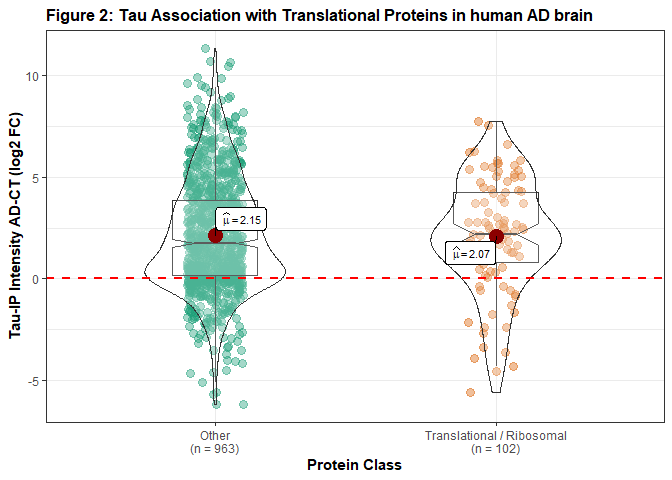
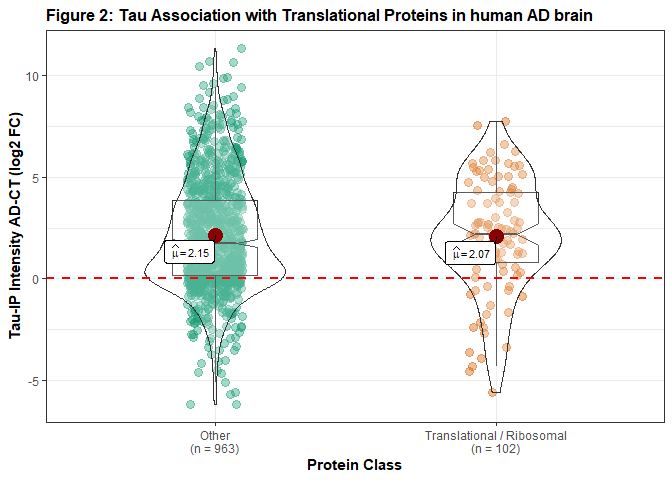
redux

diff --git a/Tau-Ribosome Association/test_tex.md b/Tau-Ribosome Association/test_tex.md
@@ -2,6 +2,7 @@ Relationship between ribosomal protein position and tau association in
 Alzheimer’s disease
 ================
 Shon Koren
+August 10th, 2020
 
 This is code demonstrating the relationship between human ribosomal
 protein (RP) structural position and association with the microtubule
@@ -22,8 +23,8 @@ AA}\_{rRNA}}{\\sum(AA\_{rRNA}+AA\_{water})}](https://latex.codecogs.com/png.late
 Internal RP proteins have more AA interfacing with rRNA than water
 resulting in a higher Interface Index. A common cutoff for RP structural
 position is 0.60 (Shigeoka et al., 2019). Plotting for the relative
-frequency of RP interface indices reveals most RPs are external rather
-than internal, as expected.
+frequency of RP interface indices (Fig. 1) reveals most RPs are external
+rather than internal, as expected.
 
 <img src="test_tex_files/figure-gfm/unnamed-chunk-1-1.png" style="display: block; margin: auto;" />
 
@@ -39,8 +40,9 @@ roughly 50 out of 80 potential RPs.
 As noted by the Hsieh et al., 2019 study among many others including
 from the Abisambra lab, tau basally associates with RPs. When we plot
 the data from Hsieh 2019, we see that translational or ribosomal
-proteins are highly enriched (log2 FC \> 2) in AD over control samples,
-suggesting that tau has enhanced association with RPs in AD.
+proteins are highly enriched (log2 FC \> 2) in AD over control samples
+(Fig. 2). This suggests that tau has enhanced association with RPs in
+AD, as noted by other studies.
 
 <img src="test_tex_files/figure-gfm/unnamed-chunk-4-1.png" style="display: block; margin: auto;" />
 
@@ -73,7 +75,7 @@ Since the p value of the two-sample K-S test \> 0.05, the two
 distributions of ribosomal structural position (external, II \< 0.60 and
 internal, II \> 0.60) are not independent, suggesting tau associates
 with RPs regardless of their position in ribosomes. This is more easily
-interpreted when plotted:
+interpreted when plotted in (Fig. 3):
 
 <img src="test_tex_files/figure-gfm/unnamed-chunk-6-1.png" style="display: block; margin: auto;" />
 
@@ -89,7 +91,8 @@ whether tau associates with RPs more in AD as a product of their
 structural position given what is known about tau’s mislocalization and
 ribosome dysfunction in disease. We can repeat our statistical analysis
 comparing the distribution of external (\<0.60 II) or internal (\>0.60
-II) RPs associating with tau in AD (AD-CT FoldChange):
+II) RPs associating with tau in AD over in control brain samples (Fig.
+4):
 
     ## 
     ##  Two-sample Kolmogorov-Smirnov test
@@ -104,11 +107,11 @@ RPs also does not correlate with structural position in the ribosome.
 This supports tau binding to RPs while not incorporated into the full
 ribosomes.
 
-References: 1. Hsieh, Y.-C. et al. Tau-Mediated Disruption of the
+<br> References: 1.Hsieh, Y.-C. et al. Tau-Mediated Disruption of the
 Spliceosome Triggers Cryptic RNA Splicing and Neurodegeneration in
-Alzheimer’s Disease. Cell Rep 29, 301-316.e10 (2019). 2. Natchiar, S.
-K., Myasnikov, A. G., Kratzat, H., Hazemann, I. & Klaholz, B. P.
+Alzheimer’s Disease. Cell Rep 29, 301-316.e10 (2019). 2.Natchiar, S. K.,
+Myasnikov, A. G., Kratzat, H., Hazemann, I. & Klaholz, B. P.
 Visualization of chemical modifications in the human 80S ribosome
-structure. Nature 551, 472–477 (2017). 3. Shigeoka, T. et al. On-Site
+structure. Nature 551, 472–477 (2017). 3.Shigeoka, T. et al. On-Site
 Ribosome Remodeling by Locally Synthesized Ribosomal Proteins in Axons.
 Cell Rep 29, 3605-3619.e10 (2019).
